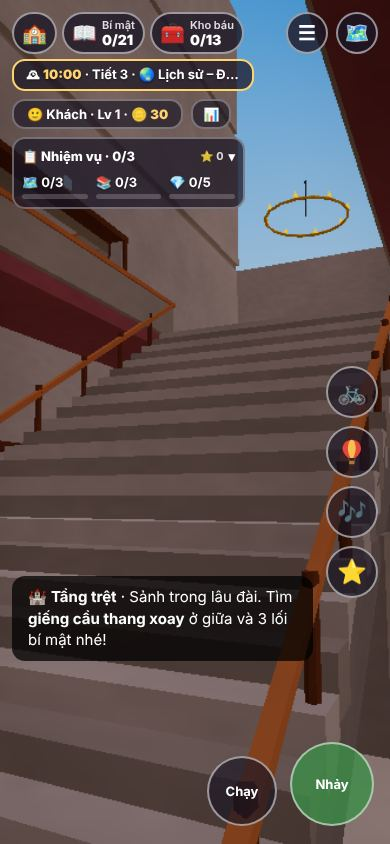
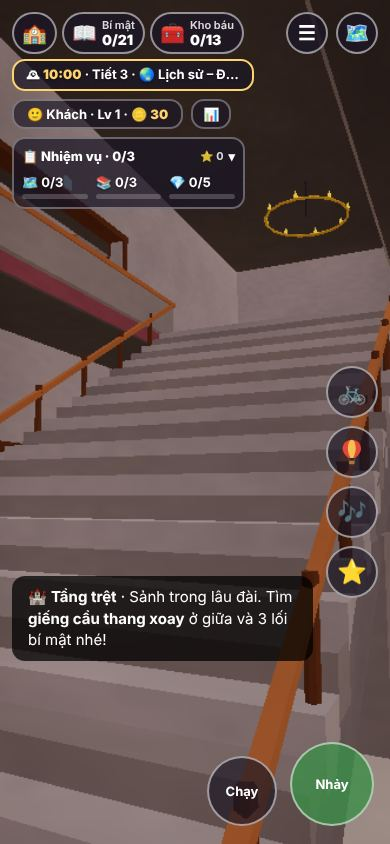
Nội thất lâu đài: tầng hầm (bếp, hầm rượu + tường bí mật, ngục, kho thảo dược, lò sưởi, kho bí mật) + tầng 1 (thư viện 2 tầng, phòng tranh, bản đồ cổ, nhạc)
- Thùng rượu nằm có đai sắt (khối), cầu thang đá dạng bậc tấm + dầm + trụ đỡ
- Mỗi tầng tự vẽ trần mỏng → nhìn lên lỗ cầu thang không thấy trời khi tầng trên chưa tải; trần màu riêng
- Ánh sáng trong nhà (uLift, mạnh hơn về đêm) cho tường + đồ đạc; trong nhà tắt mưa/sương
- Điện thoại: hầm 70–82, tầng 1 83–99 draw call

Claude-Session: https://claude.ai/code/session_012QLWnAPBA63d1WXzxiKe7F

diff --git a/client/js/island/academy/interior/index.js b/client/js/island/academy/interior/index.js
@@ -39,7 +39,11 @@ export function createInterior(ctx, opt) {
   });
 
   // ---------- dựng ----------
-  function ensureMats() { if (stoneMat) return; stoneMat = stoneMaterial(lookChoice()); glowMat = new THREE.MeshBasicMaterial({ vertexColors: true }); }
+  // ánh sáng trong nhà: cộng thêm màu × uLift (đèn nến/đuốc khắp lâu đài) → ban đêm vẫn rõ, ban ngày bớt tối góc khuất
+  const LIFT = { value: 0.2 };
+  const lifted = (m, key) => { const prev = m.onBeforeCompile; m.onBeforeCompile = (sh, r) => { if (prev) prev.call(m, sh, r); sh.uniforms.uLift = LIFT; sh.fragmentShader = 'uniform float uLift;\n' + sh.fragmentShader.replace('#include <emissivemap_fragment>', '#include <emissivemap_fragment>\n totalEmissiveRadiance += diffuseColor.rgb * uLift;'); }; m.customProgramCacheKey = () => 'academy-int-' + key; m.needsUpdate = true; return m; };
+  function ensureMats() { if (stoneMat) return; const look = lookChoice(); stoneMat = lifted(stoneMaterial(look), 'stone-' + look); glowMat = new THREE.MeshBasicMaterial({ vertexColors: true }); }
+  const kitMats = new Map(), kitMat = m => { if (!kitMats.has(m)) kitMats.set(m, lifted(m.clone(), 'kit')); return kitMats.get(m); };
   function buildCoreOnce() {
     if (core) return; ensureMats();
     core = buildCore({ stoneMat, glowMat }); root.add(core.group); scene.add(root); live = true;
@@ -51,7 +55,7 @@ export function createInterior(ctx, opt) {
     const { kit } = furnish(k, y, B);
     const m1 = new THREE.Mesh(B.stone.build(), stoneMat), m2 = new THREE.Mesh(B.glow.build(), glowMat);
     for (const m of [m1, m2]) { m.matrixAutoUpdate = false; F.group.add(m); }
-    for (const [name, list] of Object.entries(kit)) placeKit(F.group, name, list, { shadow: false }).then(ims => { for (const im of ims) { im.receiveShadow = false; im.userData.noCamOcc = true; } });
+    for (const [name, list] of Object.entries(kit)) placeKit(F.group, name, list, { shadow: false }).then(ims => { for (const im of ims) { im.receiveShadow = false; im.userData.noCamOcc = true; if (!Array.isArray(im.material)) im.material = kitMat(im.material); } });
     F.group.traverse(o => { if (o.isMesh) { o.castShadow = false; o.receiveShadow = false; } });
     for (const s of F.secrets) if (found.includes(s.def.id)) openSecret(s, true);
     F.group.visible = false; root.add(F.group); floors.set(k, F);
@@ -137,6 +141,7 @@ export function createInterior(ctx, opt) {
   function update(dt) {
     if (!live) return;
     const T = Date.now() / 1000, st = core.update(T); syncTops();
+    LIFT.value = 0.18 + 0.34 * (ctx.sky && ctx.sky.state ? ctx.sky.state.night || 0 : 0);
     const inside = stream(false);
     if (!inside) { if (performance.now() - lastIn > 60000 && !player.vehicle) disposeAll(); return; }
     lastIn = performance.now();

diff --git a/client/js/island/academy/interior/build.js b/client/js/island/academy/interior/build.js
@@ -135,7 +135,8 @@ export function buildFloor(k, opt = {}) {
   const wallC = id => (kindOf(id) === 'room' ? C.wall : C.wallD);
   // --- sàn (theo vùng, màu riêng) + trần (dưới tầng trên không có sàn) ---
   rects((x, z) => { const id = cellId(k, x, z), kd = kindOf(id); return kd === 'room' || kd === 'corr' ? id : null; }, (x0, z0, x1, z1, id) => stone.box(x0, x1, y - 0.4, y, z0, z1, REG[id].c));
-  rects((x, z) => { const id = cellId(k, x, z), kd = kindOf(id); if (!(kd === 'room' || kd === 'corr' || kd === 'hole') || isShaft(id)) return null; const up = kindOf(cellId(k + 1, x, z)); return up === 'void' || up === 'solid' ? 1 : null; }, (x0, z0, x1, z1) => stone.box(x0, x1, y + CEIL, y + FH, z0, z1, C.ceil));
+  // trần: tầng trên không có sàn → khối mái dày; có sàn → tấm trần mỏng ngay dưới sàn trên (tầng trên chưa tải vẫn kín, màu trần riêng)
+  rects((x, z) => { const id = cellId(k, x, z), kd = kindOf(id); if (!(kd === 'room' || kd === 'corr' || kd === 'hole') || isShaft(id)) return null; const up = kindOf(cellId(k + 1, x, z)); return up === 'void' || up === 'solid' ? 2 : up === 'hole' || up === 'tower' ? null : 1; }, (x0, z0, x1, z1, t) => stone.box(x0, x1, y + CEIL - (t === 1 ? 0.06 : 0), t === 1 ? y + CEIL - 0.01 : y + FH, z0, z1, C.ceil));
   // --- tường / cửa / lan can ---
   runs(k, r => {
     const { ax, L, t, a, b } = r, tw = isTw(a) || isTw(b), sh = isShaft(a) || isShaft(b), s0 = r.s0, s1 = r.s1;
